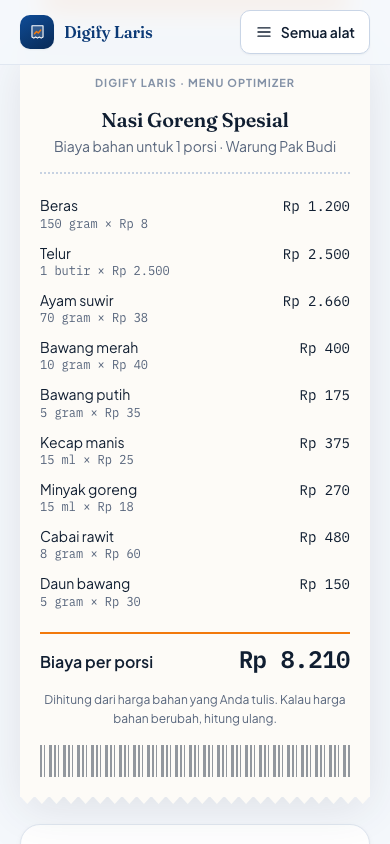
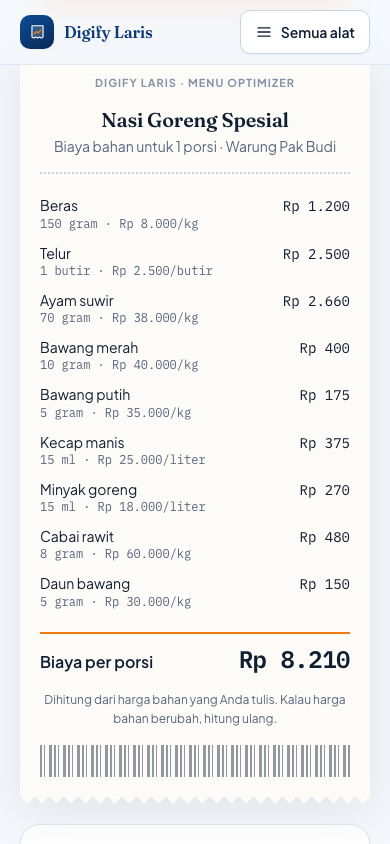
feat(biaya-menu): struk menampilkan harga belanja asli, bukan harga per gram
Baris struk sebelumnya berbunyi "150 gram × Rp 8" — benar secara hitungan, tapi
"Rp 8 per gram" tidak pernah dilihat pemilik warung di pasar. Yang dia lihat
"Rp 8.000 per kilo". Angka yang tidak bisa dia kenali membuat seluruh hitungan
terasa tidak bisa dipercaya, padahal justru kemampuan mencocokkan struk dengan
nota belanja di tangannya yang membuat alat ini dipakai.

Sekarang: "150 gram · Rp 8.000/kg".

- Parser menyimpan harga dan satuan belanja apa adanya (`harga_beli`,
  `satuan_beli`) di samping nilai yang sudah dinormalkan ke satuan dasar.
  Satuannya sengaja TIDAK dinormalkan — "kg" yang ditulis pemiliknya harus
  tetap muncul sebagai "kg".
- `harga_satuan` dan `satuan` tidak diubah sedikit pun; keduanya tetap dipakai
  untuk berhitung. Ini penambahan field, bukan penggantian.
- Kalau harganya ditulis tanpa garis miring ("2 butir @ Rp 2.500"), satuan
  belanjanya mengikuti satuan pakai — memang per butir.
- docs/API_CONTRACT.md menjelaskan kenapa ada dua pasang field harga.
- Tangkapan layar di README ikut diperbarui.

diff --git a/frontend/src/components/ui/Struk.tsx b/frontend/src/components/ui/Struk.tsx
@@ -116,18 +116,28 @@ export function StrukBaris({
   );
 }
 
-/** Baris bahan: nama di kiri, jumlah kecil di bawahnya, biaya rata kanan. */
+/**
+ * Baris bahan: nama di kiri, takaran kecil di bawahnya, biaya rata kanan.
+ *
+ * Harga yang ditampilkan adalah HARGA BELANJA seperti yang ditulis pemiliknya
+ * — "Rp 8.000/kg", bukan "Rp 8" per gram. Keduanya benar, tapi hanya yang
+ * pertama yang pernah dia lihat di pasar. Baris struk harus bisa dicocokkan
+ * langsung dengan nota belanja di tangannya; angka yang tidak dia kenali
+ * membuat seluruh hitungan terasa tidak bisa dipercaya.
+ */
 export function StrukBarisBahan({
   nama,
   jumlah,
   satuan,
-  hargaSatuan,
+  hargaBeli,
+  satuanBeli,
   biaya,
 }: {
   nama: string;
   jumlah: number;
   satuan: string;
-  hargaSatuan: number;
+  hargaBeli: number;
+  satuanBeli: string;
   biaya: string;
 }) {
   return (
@@ -135,7 +145,7 @@ export function StrukBarisBahan({
       <div className="min-w-0">
         <p className="text-sm leading-snug">{nama}</p>
         <p className="tabular text-xs" style={{ color: "var(--ink-dim)" }}>
-          {formatAngka(jumlah)} {satuan} × Rp {formatAngka(hargaSatuan)}
+          {formatAngka(jumlah)} {satuan} · Rp {formatAngka(hargaBeli)}/{satuanBeli}
         </p>
       </div>
       <p className="tabular shrink-0 text-sm">{biaya}</p>

diff --git a/frontend/src/components/tools/BiayaMenu.tsx b/frontend/src/components/tools/BiayaMenu.tsx
@@ -96,7 +96,8 @@ export default function BiayaMenu() {
                 nama={bahanBaris.nama}
                 jumlah={bahanBaris.jumlah}
                 satuan={bahanBaris.satuan}
-                hargaSatuan={bahanBaris.harga_satuan}
+                hargaBeli={bahanBaris.harga_beli}
+                satuanBeli={bahanBaris.satuan_beli}
                 biaya={formatRupiah(bahanBaris.biaya)}
               />
             ))}

diff --git a/frontend/src/lib/types/api.ts b/frontend/src/lib/types/api.ts
@@ -22,8 +22,12 @@ export type RincianBahan = {
   nama: string;
   jumlah: number;
   satuan: string;
+  /** Harga per satuan dasar — 8 per "gram". Dipakai berhitung, bukan ditampilkan. */
   harga_satuan: number;
   biaya: number;
+  /** Harga belanja persis seperti yang ditulis pemiliknya — 8000 per "kg". */
+  harga_beli: number;
+  satuan_beli: string;
 };
 
 export type BiayaMenuResponse = {

diff --git a/backend/apps/optimizer/aturan/parser_bahan.py b/backend/apps/optimizer/aturan/parser_bahan.py
@@ -56,6 +56,17 @@ class BahanTerurai:
     harga_satuan: Decimal
     biaya: Decimal
 
+    # Harga belanja PERSIS seperti yang ditulis pemilik warung: 8000 dan "kg"
+    # untuk baris "@ Rp 8.000/kg". Disimpan terpisah dari `harga_satuan`, yang
+    # sudah diubah ke satuan dasar (Rp 8 per gram).
+    #
+    # Alasannya: struk hasil harus bisa dicocokkan dengan nota belanja di
+    # tangan pemiliknya. "Rp 8 per gram" itu benar, tapi tidak pernah dia lihat
+    # di pasar — yang dia lihat "Rp 8.000 per kilo". Angka yang tidak bisa dia
+    # kenali membuat seluruh hitungan terasa tidak bisa dipercaya.
+    harga_beli: Decimal
+    satuan_beli: str
+
 
 @dataclass(frozen=True)
 class HasilUrai:
@@ -120,6 +131,7 @@ def urai_baris(baris: str) -> tuple[BahanTerurai | None, str]:
             return None, "harganya per apa? tulis misalnya @ Rp 8.000/kg"
         harga_per_dasar = harga
         jumlah_dasar = jumlah
+        satuan_beli = satuan_pakai
     else:
         if jenis_satuan(satuan_harga) != jenis_pakai:
             # Kasus paling sering: bahan ditakar pakai sendok tapi dibeli
@@ -136,6 +148,7 @@ def urai_baris(baris: str) -> tuple[BahanTerurai | None, str]:
 
         harga_per_dasar = harga / satu_satuan_harga
         jumlah_dasar = ke_satuan_dasar(jumlah, satuan_pakai) or jumlah
+        satuan_beli = satuan_harga
 
     biaya = harga_per_dasar * jumlah_dasar
 
@@ -148,6 +161,12 @@ def urai_baris(baris: str) -> tuple[BahanTerurai | None, str]:
             satuan=nama_tampilan(satuan_pakai),
             harga_satuan=harga_per_dasar,
             biaya=biaya,
+            harga_beli=harga,
+            # Ditulis apa adanya (hanya dikecilkan hurufnya), BUKAN dinormalkan
+            # ke satuan dasar. "kg" yang ditulis pemiliknya harus tetap muncul
+            # sebagai "kg" di struk, supaya barisnya bisa dicocokkan langsung
+            # dengan nota belanjanya.
+            satuan_beli=satuan_beli.strip().lower(),
         ),
         "",
     )

diff --git a/backend/apps/optimizer/tests/test_aturan_biaya_menu.py b/backend/apps/optimizer/tests/test_aturan_biaya_menu.py
@@ -149,7 +149,38 @@ class TestHitungBiayaMenu:
     def test_bentuk_baris_sesuai_kontrak(self) -> None:
         hasil = hitung(self.CONTOH)
         for bahan in hasil["ingredients_breakdown"]:
-            assert set(bahan) == {"nama", "jumlah", "satuan", "harga_satuan", "biaya"}
+            assert set(bahan) == {
+                "nama",
+                "jumlah",
+                "satuan",
+                "harga_satuan",
+                "biaya",
+                "harga_beli",
+                "satuan_beli",
+            }
+
+    def test_harga_beli_ditampilkan_seperti_yang_ditulis(self) -> None:
+        """Struk harus bisa dicocokkan dengan nota belanja di tangan pemiliknya.
+
+        "Rp 8 per gram" itu benar, tapi tidak pernah dia lihat di pasar — yang
+        dia lihat "Rp 8.000 per kilo". Angka yang tidak bisa dia kenali membuat
+        seluruh hitungan terasa tidak bisa dipercaya.
+        """
+        beras = hitung("Beras 500g @ Rp 8.000/kg")["ingredients_breakdown"][0]
+        assert beras["harga_beli"] == 8000.0
+        assert beras["satuan_beli"] == "kg"
+        # Yang dipakai berhitung tetap harga per satuan dasar.
+        assert beras["harga_satuan"] == 8.0
+
+        minyak = hitung("Minyak 30ml @ Rp 18.000/liter")["ingredients_breakdown"][0]
+        assert minyak["harga_beli"] == 18000.0
+        assert minyak["satuan_beli"] == "liter"
+
+    def test_satuan_beli_ikut_satuan_pakai_kalau_harganya_tanpa_garis_miring(self) -> None:
+        """"2 butir @ Rp 2.500" — harganya memang per butir."""
+        telur = hitung("Telur 2 butir @ Rp 2.500")["ingredients_breakdown"][0]
+        assert telur["harga_beli"] == 2500.0
+        assert telur["satuan_beli"] == "butir"
 
     def test_margin_dihitung_dari_harga_jual_sekarang(self) -> None:
         hasil = hitung(self.CONTOH, harga=25000)

diff --git a/backend/apps/optimizer/features/cost_calculator.py b/backend/apps/optimizer/features/cost_calculator.py
@@ -89,6 +89,11 @@ def hitung_biaya_menu(data: dict[str, Any]) -> dict[str, Any]:
                 # baris struk terlihat gratis.
                 "harga_satuan": float(round(b.harga_satuan, 2)),
                 "biaya": bulatkan_rupiah(b.biaya),
+                # Harga belanja seperti yang ditulis pemiliknya — 8000 dan
+                # "kg", bukan 8 dan "gram". Inilah yang ditampilkan di struk;
+                # `harga_satuan` tetap dikirim karena dipakai untuk menghitung.
+                "harga_beli": float(round(b.harga_beli, 2)),
+                "satuan_beli": b.satuan_beli,
             }
             for b in hasil.bahan
         ],

diff --git a/backend/apps/optimizer/tests/test_kontrak.py b/backend/apps/optimizer/tests/test_kontrak.py
@@ -457,7 +457,15 @@ def test_bentuk_baris_biaya_menu(client: APIClient) -> None:
         ).json()
 
     for bahan in data["ingredients_breakdown"]:
-        assert set(bahan.keys()) == {"nama", "jumlah", "satuan", "harga_satuan", "biaya"}
+        assert set(bahan.keys()) == {
+            "nama",
+            "jumlah",
+            "satuan",
+            "harga_satuan",
+            "biaya",
+            "harga_beli",
+            "satuan_beli",
+        }
 
 
 def test_bentuk_laporan_export(client: APIClient) -> None:

diff --git a/docs/API_CONTRACT.md b/docs/API_CONTRACT.md
@@ -48,10 +48,20 @@ Parses a free-text ingredient list. The user is never forced into a structured p
 | Field | Type |
 |---|---|
 | `item_name` | string |
-| `ingredients_breakdown` | array of `{ nama, jumlah, satuan, harga_satuan, biaya }` |
+| `ingredients_breakdown` | array of `{ nama, jumlah, satuan, harga_satuan, biaya, harga_beli, satuan_beli }` |
 | `cogs_per_portion` | number |
 | `current_margin_percentage` | number |
 | `food_waste_percentage` | number |
+
+Two price fields per ingredient, on purpose:
+
+- `harga_satuan` + `satuan` — normalised to the base unit (`8` per `gram`). Used for
+  arithmetic; every row is comparable.
+- `harga_beli` + `satuan_beli` — exactly what the owner typed (`8000` per `kg`). Used
+  for display, so a receipt row can be checked against the shopping note in their hand.
+
+`satuan_beli` is the raw unit token, lower-cased (`kg`, `liter`, `butir`) — it is not
+normalised, because the point is that it matches what they wrote.
 
 ---
 
